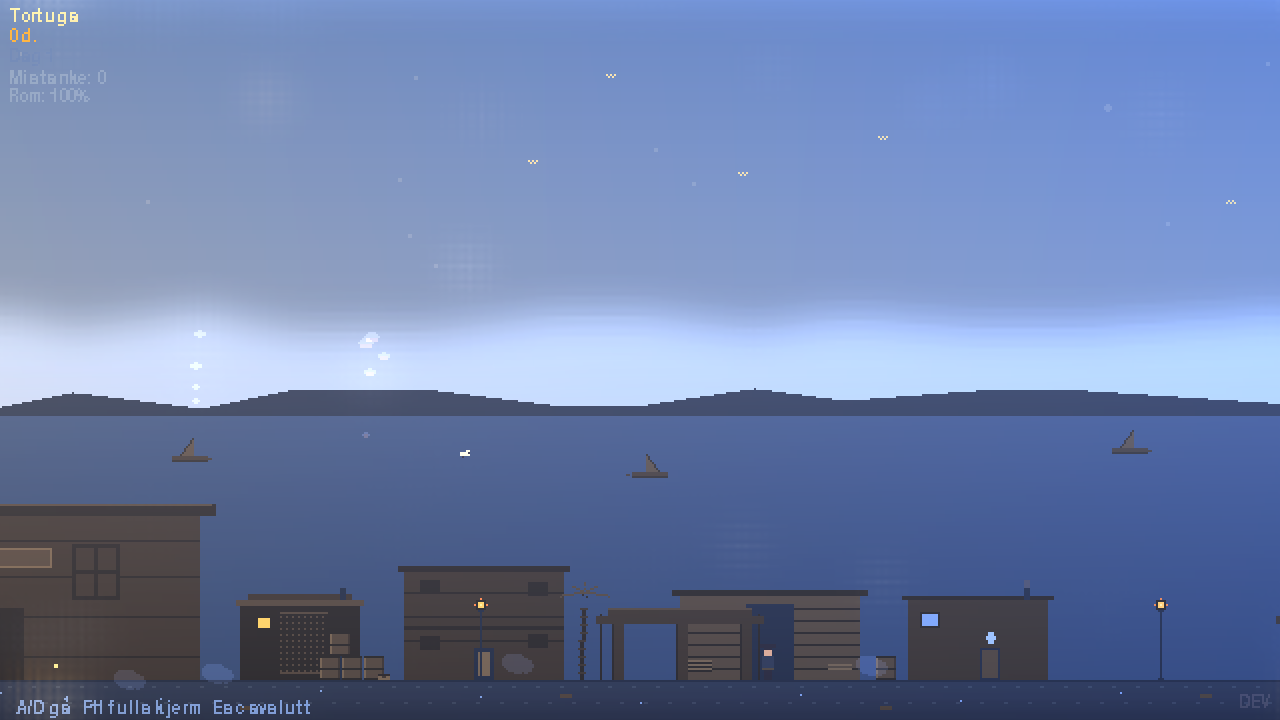
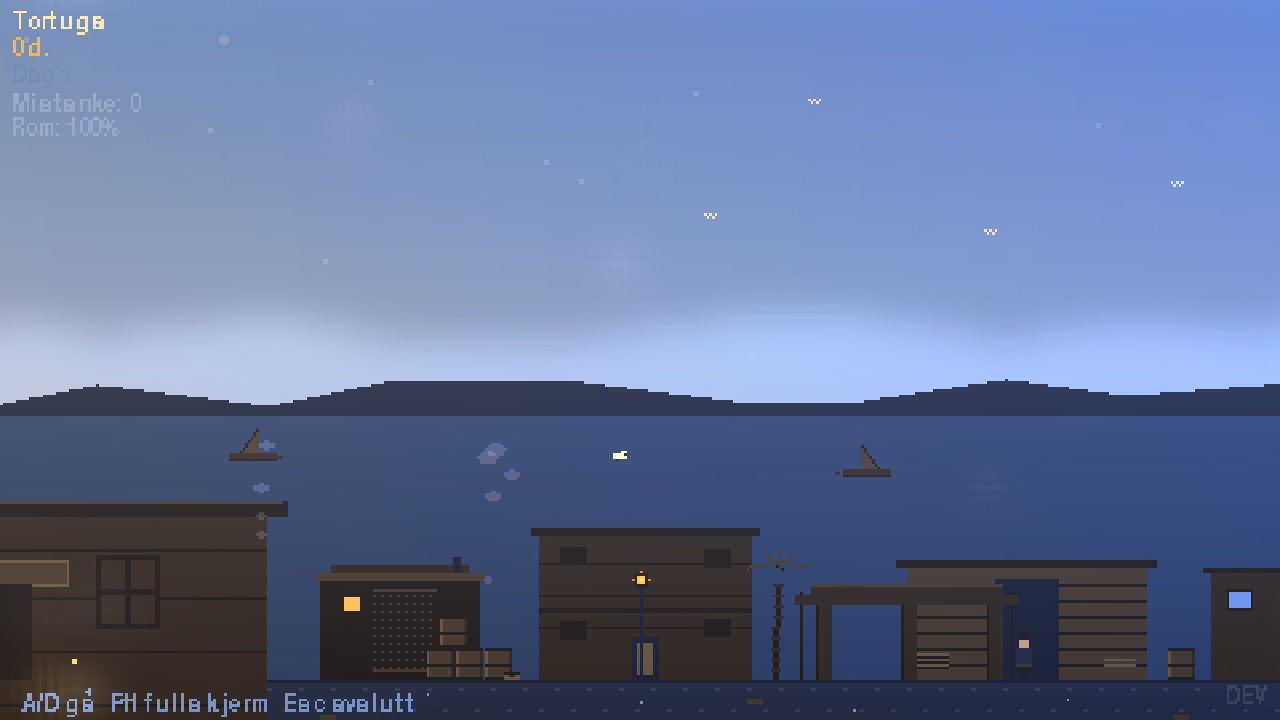
Fase 2.6 sub-steg 10: ModernGL bloom-tuning for 480x270 + chunkier piksler
Bloom-radius senket fra 2.5 til 1.8, threshold hevet 0.45 -> 0.50,
strength dempet 1.10 -> 0.85. Chunkier piksler (24x40 sprites paa
480x270) trenger mindre blur — den eldre tuningen ga "soakvott"-
inntrykk paa nytt pixel-skala. Varm/kald-grading uendret (0.55).

tools/postfx_screenshot.py: render_size hardkoding fjernet — bruker
constants.RENDER_WIDTH/HEIGHT slik at verktoeyet folger oppl./endring.

Frame-time paa village-scene: 2.28 ms (442 FPS), enda mer headroom
under 60 FPS-budsjett etter oppl./reduksjonen.

Test-pakken (1057) groenn.

diff --git a/systems/post_fx.py b/systems/post_fx.py
@@ -173,11 +173,12 @@ class PostFXPipeline:
         self.quad = quad
         self.window_size = window_size
         # Justérbare parametre — settes som uniforms hver frame.
-        # Tunet 2026-04-30 mot ekte Tortuga-render: sterkere bloom rundt
-        # lanterner/månen, tydeligere varm/kald split mot tema.
-        self.bloom_threshold = 0.45
-        self.bloom_radius = 2.5
-        self.bloom_strength = 1.10
+        # Re-tunet 2026-04-30 for 480×270 / 24×40-sprites (Fase 2.6 sub-
+        # steg 10): chunkier piksler trenger mindre blur-radius ellers blir
+        # bildet søkkvått; lavere strength bevarer pixel-skarphet.
+        self.bloom_threshold = 0.50
+        self.bloom_radius = 1.8
+        self.bloom_strength = 0.85
         self.warm_cool = 0.55
         self.warm_tint = (1.18, 1.02, 0.86)
         self.cool_tint = (0.88, 0.96, 1.16)

diff --git a/tools/postfx_screenshot.py b/tools/postfx_screenshot.py
@@ -44,7 +44,7 @@ def render_scene(force_day: bool = True) -> pygame.Surface:
     font = pygame.font.SysFont(None, 12)
     scene = PortVillageScene(font, state, port_config.get(state.world_state.current_port))
     scene.on_enter(state, from_scene=None)
-    surf = pygame.Surface((640, 360)).convert()
+    surf = pygame.Surface((constants.RENDER_WIDTH, constants.RENDER_HEIGHT)).convert()
     for _ in range(180):
         scene.update(0.0166)
     scene._camera.set_x(120.0)
